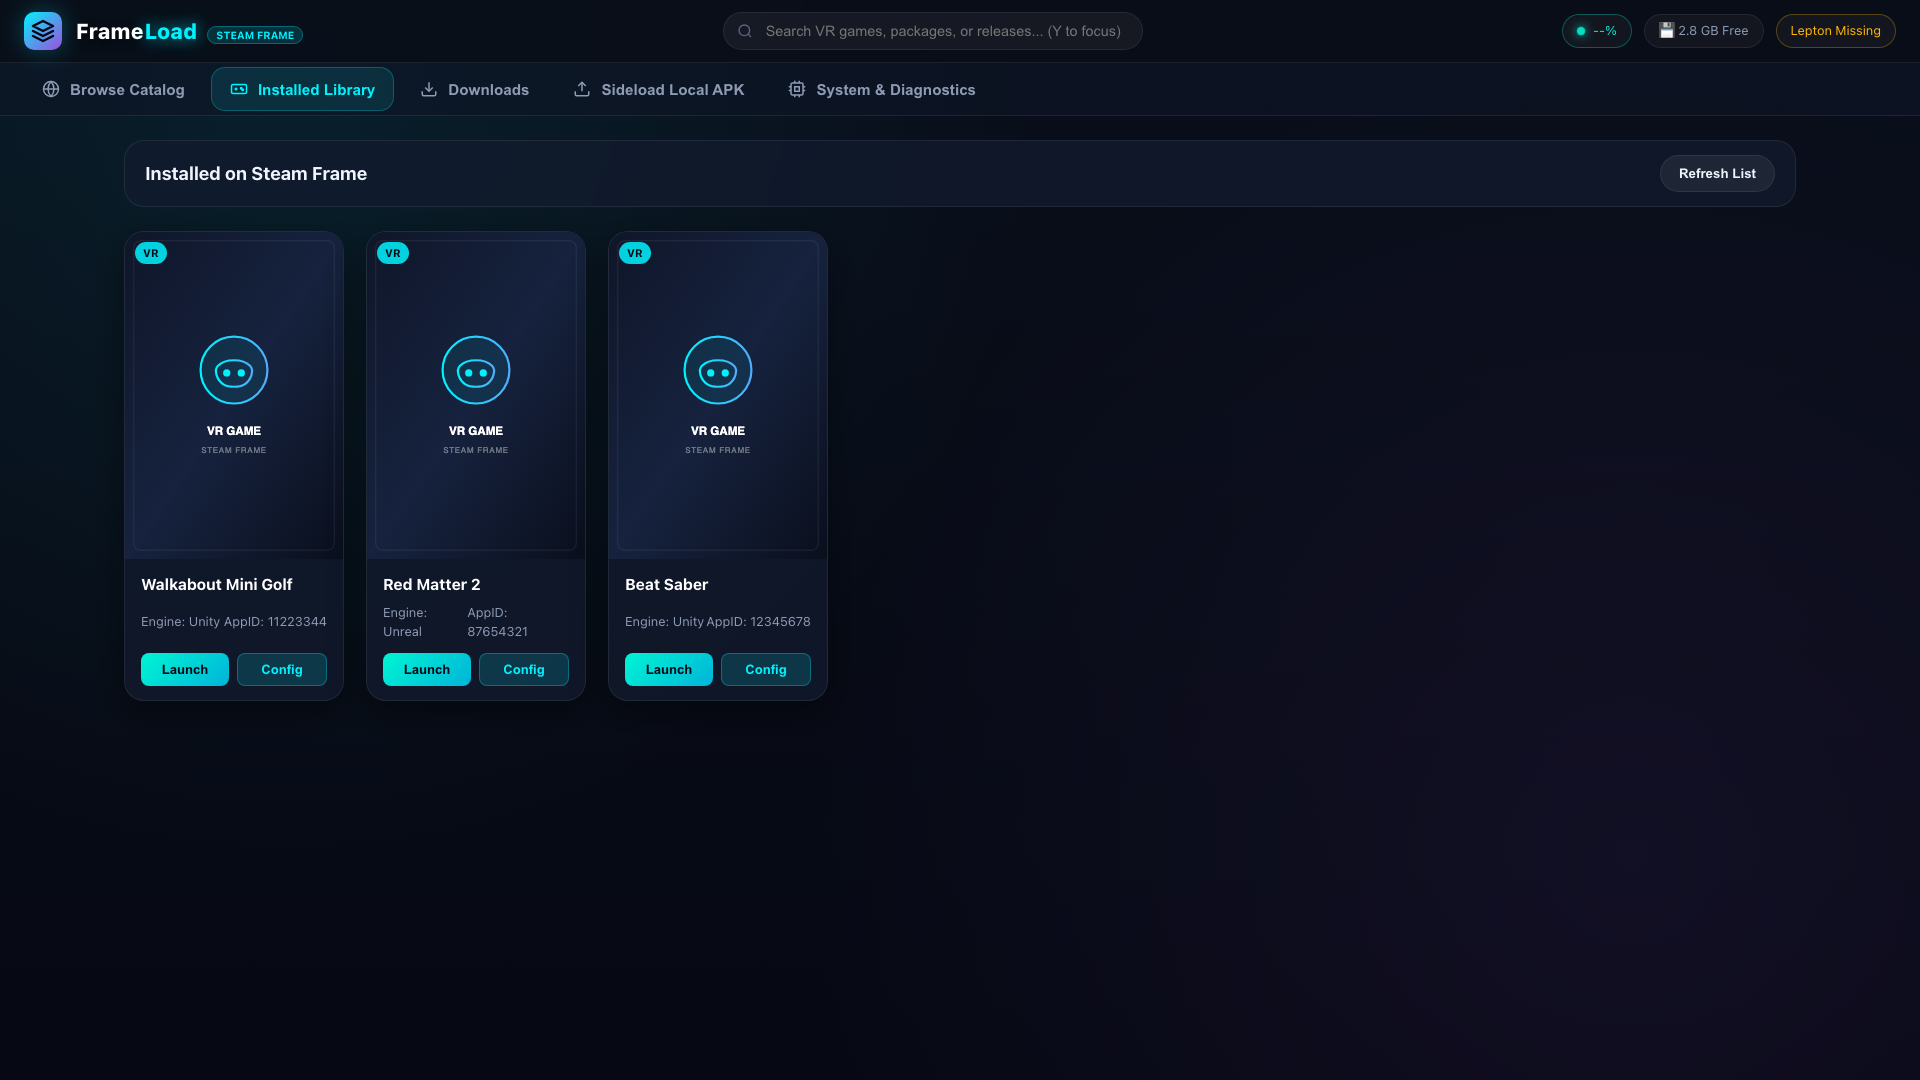
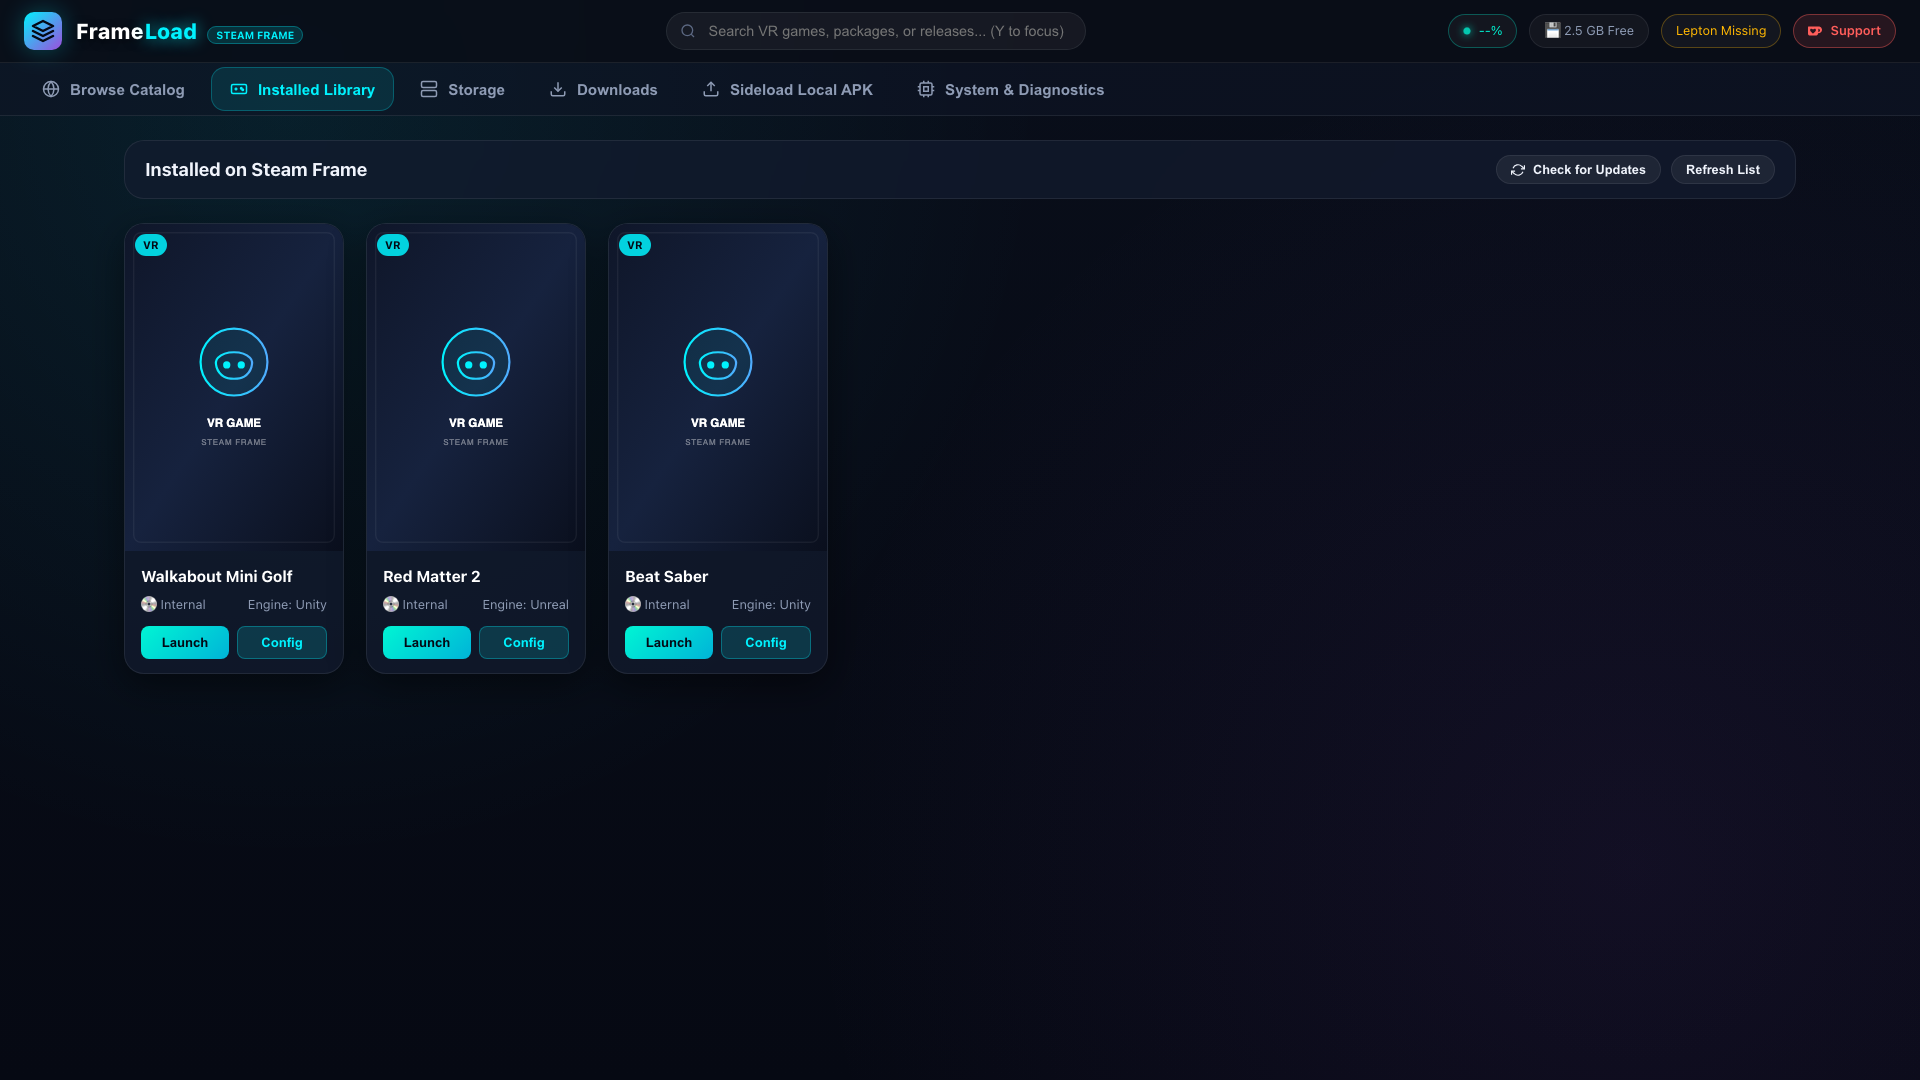
docs: refresh all screenshots in README to showcase storage manager, window presets, mods, and Ko-fi card

diff --git a/frameload/web/static/js/app.js b/frameload/web/static/js/app.js
@@ -81,9 +81,20 @@ function setupTabs() {
     if (tabEl) tabEl.click();
     if (hash === "modal") {
       setTimeout(() => {
-        const first = state.installed[0] || state.catalog.items[0];
-        if (first) openGameModal(first.package || first.id, state.installed.length ? "installed" : "catalog");
-      }, 400);
+        const bs = (state.installed && state.installed.find(g => g.package === "com.beatgames.beatsaber")) || (state.installed && state.installed[0]) || (state.catalog && state.catalog.items[0]);
+        if (bs) openGameModal(bs.package || bs.id, state.installed && state.installed.length ? "installed" : "catalog");
+      }, 500);
+    }
+    if (hash === "sideload") {
+      setTimeout(() => {
+        const flatCheck = document.getElementById("sideload-flat");
+        if (flatCheck) {
+          flatCheck.checked = true;
+          toggleFlatWindowPreset(true);
+        }
+        const pathInput = document.getElementById("sideload-apk-path");
+        if (pathInput) pathInput.value = "/run/media/deck/SD_CARD/GorillaTag_v1.2.xapk";
+      }, 200);
     }
   }
 }

diff --git a/scripts/capture_screenshots.py b/scripts/capture_screenshots.py
@@ -1,0 +1,53 @@
+import subprocess
+import os
+import sys
+from PIL import Image
+
+CHROME_BIN = "/Applications/Google Chrome.app/Contents/MacOS/Google Chrome"
+OUTPUT_DIR = os.path.abspath("docs/images")
+BASE_URL = "http://127.0.0.1:5055"
+
+TARGETS = [
+    ("screenshot_catalog.png", f"{BASE_URL}/#catalog"),
+    ("screenshot_library.png", f"{BASE_URL}/#library"),
+    ("screenshot_storage.png", f"{BASE_URL}/#storage"),
+    ("screenshot_sideload.png", f"{BASE_URL}/#sideload"),
+    ("screenshot_system.png", f"{BASE_URL}/#system"),
+    ("screenshot_modal.png", f"{BASE_URL}/#modal"),
+]
+
+def capture_all():
+    os.makedirs(OUTPUT_DIR, exist_ok=True)
+    for filename, url in TARGETS:
+        out_path = os.path.join(OUTPUT_DIR, filename)
+        print(f"Capturing {filename} from {url}...", flush=True)
+        cmd = [
+            CHROME_BIN,
+            "--headless=new",
+            "--disable-gpu",
+            "--hide-scrollbars",
+            "--no-first-run",
+            "--no-default-browser-check",
+            "--window-size=1920,1080",
+            "--virtual-time-budget=3500",
+            f"--screenshot={out_path}",
+            url
+        ]
+        try:
+            subprocess.run(cmd, stdout=subprocess.DEVNULL, stderr=subprocess.DEVNULL, timeout=12)
+        except subprocess.TimeoutExpired:
+            print(f"  Timeout reached for {filename}, proceeding to check image...", flush=True)
+
+        if os.path.exists(out_path):
+            size = os.path.getsize(out_path)
+            try:
+                with Image.open(out_path) as img:
+                    w, h = img.size
+                print(f"  ✓ Saved {filename}: {w}x{h}, {size:,} bytes", flush=True)
+            except Exception as e:
+                print(f"  ✓ Saved {filename}: {size:,} bytes (PIL error: {e})", flush=True)
+        else:
+            print(f"  ✗ Failed to create {filename}", flush=True)
+
+if __name__ == "__main__":
+    capture_all()

diff --git a/frameload/server.py b/frameload/server.py
@@ -82,10 +82,10 @@ class FrameLoadApiHandler(SimpleHTTPRequestHandler):
                     return
             self.send_error(HTTPStatus.NOT_FOUND)
         elif path == "/api/installed/backups":
-            pkg = params.get("package", [""])[0]
+            pkg = params.get("package", params.get("pkg", [""]))[0]
             self.send_json({"backups": SaveBackupManager.list_backups(pkg)})
         elif path == "/api/installed/mods":
-            pkg = params.get("package", [""])[0]
+            pkg = params.get("package", params.get("pkg", [""]))[0]
             if not pkg:
                 self.send_json({"error": "Missing package parameter"}, status=HTTPStatus.BAD_REQUEST)
             else:

diff --git a/README.md b/README.md
@@ -112,13 +112,18 @@ Unlike PC-dependent companion tools, **FrameLoad runs directly ON-DEVICE on the 
 
 | 🌐 Browse Mirror Catalog | 🎮 Installed Library |
 |:---:|:---:|
-| ![Browse Catalog](docs/images/screenshot_catalog.png) | ![Installed Library](docs/images/screenshot_library.png) |
-| *Browse, filter, and queue VR titles with one click* | *Manage installed games, launch in VR, and configure settings* |
+| [![Browse Catalog](docs/images/screenshot_catalog.png)](docs/images/screenshot_catalog.png) | [![Installed Library](docs/images/screenshot_library.png)](docs/images/screenshot_library.png) |
+| *Browse, search, and queue VR titles with live Ko-fi chip, battery, storage & Lepton telemetry* | *Manage installed games, launch in VR, and configure FrameBridge per-title settings* |
 
-| 🛠 System & VR Diagnostics | ⚙ Game Details & Sideloading |
+| 📊 Steam-Style Storage Manager | 📥 Sideload & 2D Window Presets |
 |:---:|:---:|
-| ![System & Diagnostics](docs/images/screenshot_system.png) | ![Game Details Modal](docs/images/screenshot_modal.png) |
-| *Live telemetry: Lepton status, Proton ARM64, and storage* | *Quick install modal and per-game FrameBridge tweaks* |
+| [![Steam Storage Manager](docs/images/screenshot_storage.png)](docs/images/screenshot_storage.png) | [![Sideloading Hub](docs/images/screenshot_sideload.png)](docs/images/screenshot_sideload.png) |
+| *Segmented storage visualizer, multi-drive mover (Internal SSD & MicroSD), and cache cleanup* | *Sideload Quest APKs, Windows Proton EXEs, Linux apps, and toggle flat theater presets* |
+
+| 🛠 System & Diagnostics with Ko-fi | 🎵 Game Details & Custom Songs / Mods |
+|:---:|:---:|
+| [![System & Diagnostics](docs/images/screenshot_system.png)](docs/images/screenshot_system.png) | [![Game Details & Mods](docs/images/screenshot_modal.png)](docs/images/screenshot_modal.png) |
+| *Live telemetry (Lepton VR, FEX-Emu Proton ARM64), OTA updates, and Support on Ko-fi card* | *Per-game settings, drive migration, and Beat Saber custom songs & mod injector* |
 
 ---
 
